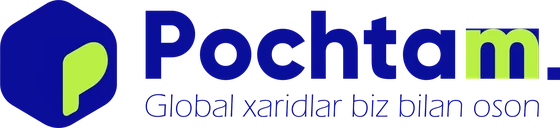
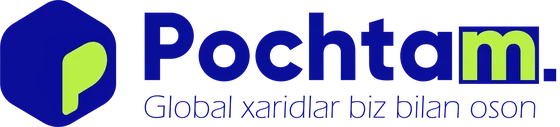
Ko'k quti harfdan kattaroq, introda quti yo'q
Quti endi `m` dan har tomondan BOX_PAD (16 birlik, harflar maydonining
~5,6%) ga chiqib turadi — ko'k yashil harfni ramkadek o'raydi. So'z-belgi
rasmi shuncha hoshiya bilan chiziladi; masshtab hoshiya emas, harflar
maydoni (WORD_H) bo'yicha hisoblanadi, shuning uchun harflar o'lchami
o'zgarmadi. Belgi bilan so'z orasi va shior masofasi hoshiyaga tuzatildi.

Introdagi quti olib tashlandi: u yerda harflar bittalab yig'iladi va quti
animatsiyaga xalaqit berardi.

  brand.webp       421x96  -> 424x96   (sarlavhada 158 -> 159 px)
  brand-full.webp  560x128 -> 560x127  (tanishuvda 55 -> 54 px)

Claude-Session: https://claude.ai/code/session_013YY2HjPmapjsnxB9N1S87s

diff --git a/Xarid Yordamchisi v2.dc.html b/Xarid Yordamchisi v2.dc.html
@@ -124,9 +124,6 @@
       { k: 'h', x: 1585, w: 194 }, { k: 't', x: 1804, w: 134 }, { k: 'a', x: 1966, w: 218 },
       { k: 'm', x: 2228, w: 303 }, { k: 'dot', x: 2567, w: 52 }
     ];
-    // Yashil `m` ortidagi ko'k quti — logotipdagi bilan bir xil o'lchov
-    // (tools/brand-logo.py dagi BOX_TOP/BOX_BOTTOM).
-    var BOX_TOP = 74, BOX_H = 208, INK = '#0B0F9A';
     var WORD_W = (2619 - 897) * WS, WORD_X = (1080 - WORD_W) / 2;
     var WORD_Y = MARK.y + MH + 96, WORD_H = 288 * WS;
     var TAG = { x: WORD_X, y: WORD_Y + WORD_H + 34, w: WORD_W, h: 96 * WS };
@@ -211,16 +208,9 @@
       glintBox.appendChild(glint);
 
       cam.appendChild(grid); cam.appendChild(glow); cam.appendChild(svg); cam.appendChild(hex);
-      var mBox = null;
       GLYPHS.forEach(function (g) {
-        var x = WORD_X + (g.x - 897) * WS;
-        if (g.k === 'm') {
-          mBox = el('div', 'position:absolute;background:' + INK + ';left:' + x + 'px;top:' +
-            (WORD_Y + BOX_TOP * WS) + 'px;width:' + (g.w * WS) + 'px;height:' + (BOX_H * WS) + 'px');
-          cam.appendChild(mBox);
-        }
         var im = IM[g.k]; im.alt = '';
-        im.setAttribute('style', 'position:absolute;display:block;left:' + x + 'px;top:' + WORD_Y + 'px;width:' + (g.w * WS) + 'px;height:' + WORD_H + 'px');
+        im.setAttribute('style', 'position:absolute;display:block;left:' + (WORD_X + (g.x - 897) * WS) + 'px;top:' + WORD_Y + 'px;width:' + (g.w * WS) + 'px;height:' + WORD_H + 'px');
         cam.appendChild(im);
       });
       cam.appendChild(glintBox); cam.appendChild(tag); cam.appendChild(cursor); cam.appendChild(pp);
@@ -257,7 +247,6 @@
         var st = WORD_CUE + i * 0.05;
         return {
           im: IM[g.k],
-          box: g.k === 'm' ? mBox : null,
           dy: an({ from: 60, to: 0, start: st, end: st + (g.k === 'dot' ? 0.8 : 0.5), ease: g.k === 'dot' ? E.outElastic : E.outBack }),
           op: an({ from: 0, to: 1, start: st, end: st + 0.15 })
         };
@@ -284,11 +273,7 @@
         hex.style.opacity = hexOpA(T); hex.style.transform = 'scale(' + hexSA(T) + ')';
         glow.style.opacity = glowA(T) * glowB(T); glow.style.transform = 'scale(' + glowSA(T) + ')';
         grid.style.opacity = lerp([land, WORD_CUE + 0.6], [1, 0.35], T);
-        gl.forEach(function (it) {
-          var op = it.op(T), tr = 'translateY(' + it.dy(T) + 'px)';
-          it.im.style.opacity = op; it.im.style.transform = tr;
-          if (it.box) { it.box.style.opacity = op; it.box.style.transform = tr; }
-        });
+        gl.forEach(function (it) { it.im.style.opacity = it.op(T); it.im.style.transform = 'translateY(' + it.dy(T) + 'px)'; });
         glintBox.style.opacity = gOpA(T) * gOpB(T); glint.style.left = gXA(T) + 'px';
         var cut = tagCutA(T);
         tag.style.opacity = tagOpA(T);
@@ -477,7 +462,7 @@
     </sc-if>
     <sc-if value="{{ isHome }}" hint-placeholder-val="{{ true }}">
       <h1 style="margin:0;display:flex;align-items:center">
-        <img src="icons/brand.webp" alt="Pochtam" width="158" height="36" style="width:158px;height:36px;object-fit:contain;display:block">
+        <img src="icons/brand.webp" alt="Pochtam" width="159" height="36" style="width:159px;height:36px;object-fit:contain;display:block">
       </h1>
     </sc-if>
     <sc-if value="{{ hasTitle }}" hint-placeholder-val="{{ false }}">
@@ -502,7 +487,7 @@
 
   <sc-if value="{{ sOnboard }}" hint-placeholder-val="{{ false }}">
     <div style="padding-top:30px;display:flex;flex-direction:column;gap:24px">
-      <img src="icons/brand-full.webp" alt="Pochtam — global xaridlar biz bilan oson" width="240" height="55" style="width:240px;height:55px;object-fit:contain;align-self:flex-start">
+      <img src="icons/brand-full.webp" alt="Pochtam — global xaridlar biz bilan oson" width="240" height="54" style="width:240px;height:54px;object-fit:contain;align-self:flex-start">
       <div style="height:7px;border-radius:4px;background:repeating-linear-gradient(-45deg,#C8102E 0 9px,#F1F1F8 9px 18px,#1B4D8F 18px 27px,#F1F1F8 27px 36px)"></div>
       <div style="display:flex;flex-direction:column;gap:10px">
         <div style="font-family:'Onest','XY Flags','Noto Color Emoji',system-ui,sans-serif;font-size:22px;letter-spacing:-.025em;font-weight:800;color:#131429;line-height:1.2">Tilni tanlang</div>

diff --git a/index.html b/index.html
@@ -125,9 +125,6 @@
       { k: 'h', x: 1585, w: 194 }, { k: 't', x: 1804, w: 134 }, { k: 'a', x: 1966, w: 218 },
       { k: 'm', x: 2228, w: 303 }, { k: 'dot', x: 2567, w: 52 }
     ];
-    // Yashil `m` ortidagi ko'k quti — logotipdagi bilan bir xil o'lchov
-    // (tools/brand-logo.py dagi BOX_TOP/BOX_BOTTOM).
-    var BOX_TOP = 74, BOX_H = 208, INK = '#0B0F9A';
     var WORD_W = (2619 - 897) * WS, WORD_X = (1080 - WORD_W) / 2;
     var WORD_Y = MARK.y + MH + 96, WORD_H = 288 * WS;
     var TAG = { x: WORD_X, y: WORD_Y + WORD_H + 34, w: WORD_W, h: 96 * WS };
@@ -212,16 +209,9 @@
       glintBox.appendChild(glint);
 
       cam.appendChild(grid); cam.appendChild(glow); cam.appendChild(svg); cam.appendChild(hex);
-      var mBox = null;
       GLYPHS.forEach(function (g) {
-        var x = WORD_X + (g.x - 897) * WS;
-        if (g.k === 'm') {
-          mBox = el('div', 'position:absolute;background:' + INK + ';left:' + x + 'px;top:' +
-            (WORD_Y + BOX_TOP * WS) + 'px;width:' + (g.w * WS) + 'px;height:' + (BOX_H * WS) + 'px');
-          cam.appendChild(mBox);
-        }
         var im = IM[g.k]; im.alt = '';
-        im.setAttribute('style', 'position:absolute;display:block;left:' + x + 'px;top:' + WORD_Y + 'px;width:' + (g.w * WS) + 'px;height:' + WORD_H + 'px');
+        im.setAttribute('style', 'position:absolute;display:block;left:' + (WORD_X + (g.x - 897) * WS) + 'px;top:' + WORD_Y + 'px;width:' + (g.w * WS) + 'px;height:' + WORD_H + 'px');
         cam.appendChild(im);
       });
       cam.appendChild(glintBox); cam.appendChild(tag); cam.appendChild(cursor); cam.appendChild(pp);
@@ -258,7 +248,6 @@
         var st = WORD_CUE + i * 0.05;
         return {
           im: IM[g.k],
-          box: g.k === 'm' ? mBox : null,
           dy: an({ from: 60, to: 0, start: st, end: st + (g.k === 'dot' ? 0.8 : 0.5), ease: g.k === 'dot' ? E.outElastic : E.outBack }),
           op: an({ from: 0, to: 1, start: st, end: st + 0.15 })
         };
@@ -285,11 +274,7 @@
         hex.style.opacity = hexOpA(T); hex.style.transform = 'scale(' + hexSA(T) + ')';
         glow.style.opacity = glowA(T) * glowB(T); glow.style.transform = 'scale(' + glowSA(T) + ')';
         grid.style.opacity = lerp([land, WORD_CUE + 0.6], [1, 0.35], T);
-        gl.forEach(function (it) {
-          var op = it.op(T), tr = 'translateY(' + it.dy(T) + 'px)';
-          it.im.style.opacity = op; it.im.style.transform = tr;
-          if (it.box) { it.box.style.opacity = op; it.box.style.transform = tr; }
-        });
+        gl.forEach(function (it) { it.im.style.opacity = it.op(T); it.im.style.transform = 'translateY(' + it.dy(T) + 'px)'; });
         glintBox.style.opacity = gOpA(T) * gOpB(T); glint.style.left = gXA(T) + 'px';
         var cut = tagCutA(T);
         tag.style.opacity = tagOpA(T);
@@ -478,7 +463,7 @@
     </sc-if>
     <sc-if value="{{ isHome }}" hint-placeholder-val="{{ true }}">
       <h1 style="margin:0;display:flex;align-items:center">
-        <img src="icons/brand.webp" alt="Pochtam" width="158" height="36" style="width:158px;height:36px;object-fit:contain;display:block">
+        <img src="icons/brand.webp" alt="Pochtam" width="159" height="36" style="width:159px;height:36px;object-fit:contain;display:block">
       </h1>
     </sc-if>
     <sc-if value="{{ hasTitle }}" hint-placeholder-val="{{ false }}">
@@ -503,7 +488,7 @@
 
   <sc-if value="{{ sOnboard }}" hint-placeholder-val="{{ false }}">
     <div style="padding-top:30px;display:flex;flex-direction:column;gap:24px">
-      <img src="icons/brand-full.webp" alt="Pochtam — global xaridlar biz bilan oson" width="240" height="55" style="width:240px;height:55px;object-fit:contain;align-self:flex-start">
+      <img src="icons/brand-full.webp" alt="Pochtam — global xaridlar biz bilan oson" width="240" height="54" style="width:240px;height:54px;object-fit:contain;align-self:flex-start">
       <div style="height:7px;border-radius:4px;background:repeating-linear-gradient(-45deg,#C8102E 0 9px,#F1F1F8 9px 18px,#1B4D8F 18px 27px,#F1F1F8 27px 36px)"></div>
       <div style="display:flex;flex-direction:column;gap:10px">
         <div style="font-family:'Onest','XY Flags','Noto Color Emoji',system-ui,sans-serif;font-size:22px;letter-spacing:-.025em;font-weight:800;color:#131429;line-height:1.2">Tilni tanlang</div>

diff --git a/sw.js b/sw.js
@@ -8,7 +8,7 @@
  *     qat'i nazar saqlanadigan keshda qoladi.
  *   - Valyuta kursi kabi API so'rovlari keshlanmaydi.
  */
-const VERSION = '8421f08eceff';
+const VERSION = '94354ad3557f';
 const CACHE = 'xarid-' + VERSION;
 /* Logotiplar keshi ilova versiyasiga bog'lanmaydi: yangilanish chiqqanda
    ular qaytadan yuklanmaydi. */

diff --git a/tools/brand-logo.py b/tools/brand-logo.py
@@ -35,8 +35,11 @@ WORD_X0, WORD_X1, WORD_H = 897, 2619, 288
 
 # Yashil `m` ortidagi ko'k to'rtburchak: harfning to'liq kengligi, x-balandlik
 # ustidan tayanch chizig'igacha. Rang — so'z-belgidagi ko'kning o'zi.
+# Quti harfdan har tomondan BOX_PAD ga kattaroq, shuning uchun so'z-belgi
+# rasmi ham shuncha hoshiya bilan chiziladi.
 BOX_GLYPH = 'm'
 BOX_TOP, BOX_BOTTOM = 74, 282
+BOX_PAD = 16
 BOX_FILL = (11, 15, 154, 255)
 
 # Lokapning nisbatlari — berilgan logotipdan o'lchab olingan.
@@ -59,13 +62,19 @@ def mark():
 
 
 def word():
-    """`Pochtam.` — harflar asl oraliqlari bilan, `m` ortida ko'k quti."""
-    im = Image.new('RGBA', (WORD_X1 - WORD_X0, WORD_H), (0, 0, 0, 0))
+    """`Pochtam.` — harflar asl oraliqlari bilan, `m` ortida ko'k quti.
+
+    Qaytadigan rasm har tomondan BOX_PAD ga kengroq: quti harfdan chiqib
+    turadi. Harflar maydonining o'zi avvalgidek WORD_H balandlikda.
+    """
+    p = BOX_PAD
+    im = Image.new('RGBA', (WORD_X1 - WORD_X0 + 2 * p, WORD_H + 2 * p), (0, 0, 0, 0))
     for name, x, w in GLYPHS:
+        gx = x - WORD_X0 + p
         if name == BOX_GLYPH:
-            box = Image.new('RGBA', (w, BOX_BOTTOM - BOX_TOP), BOX_FILL)
-            im.alpha_composite(box, (x - WORD_X0, BOX_TOP))
-        im.alpha_composite(Image.open(SRC / f'{name}.png').convert('RGBA'), (x - WORD_X0, 0))
+            box = Image.new('RGBA', (w + 2 * p, BOX_BOTTOM - BOX_TOP + 2 * p), BOX_FILL)
+            im.alpha_composite(box, (gx - p, BOX_TOP))
+        im.alpha_composite(Image.open(SRC / f'{name}.png').convert('RGBA'), (gx, p))
     return im
 
 
@@ -77,20 +86,21 @@ def lockup(tagline=False):
     36 px balandlikdagi lokapda uning harflari 4 px ga tushib qolardi.
     """
     m, w = mark(), word()
-    wh = round(m.height * WORD_SHARE)
-    k = wh / w.height
-    w = w.resize((round(w.width * k), wh), Image.LANCZOS)
+    wh = round(m.height * WORD_SHARE)       # harflar maydonining balandligi
+    k = wh / WORD_H                         # hoshiya emas, harflar bo'yicha
+    p = round(BOX_PAD * k)                  # hoshiya — masofalarni shunga tuzatamiz
+    w = w.resize((round(w.width * k), round(w.height * k)), Image.LANCZOS)
 
     text = w
     if tagline:
         t = Image.open(SRC / 'tagline.png').convert('RGBA')
         t = t.resize((round(t.width * k), round(t.height * k)), Image.LANCZOS)
-        gap = round(wh * TAG_GAP_SHARE)
-        text = Image.new('RGBA', (max(w.width, t.width), wh + gap + t.height), (0, 0, 0, 0))
+        top = p + wh + round(wh * TAG_GAP_SHARE)
+        text = Image.new('RGBA', (max(w.width, p + t.width), top + t.height), (0, 0, 0, 0))
         text.alpha_composite(w, (0, 0))
-        text.alpha_composite(t, (0, wh + gap))
+        text.alpha_composite(t, (p, top))
 
-    gap = round(m.width * GAP_SHARE)
+    gap = round(m.width * GAP_SHARE) - p
     im = Image.new('RGBA', (m.width + gap + text.width, m.height), (0, 0, 0, 0))
     im.alpha_composite(m, (0, 0))
     im.alpha_composite(text, (m.width + gap, (m.height - text.height) // 2))

diff --git a/README.md b/README.md
@@ -115,10 +115,10 @@ yig'ib to'rt faylni yasaydi:
 | `icons/icon-192.png` | PWA ikonkasi |
 | `icons/apple-touch-icon.png` | iOS ikonkasi |
 
-Yashil `m` ortidagi ko'k quti — harfning to'liq kengligi, x-balandlikdan
-tayanch chizig'igacha (`BOX_TOP`/`BOX_BOTTOM`). U introda ham bor: o'sha
-o'lchov `<head>` dagi intro kodida takrorlanadi, shuning uchun animatsiya
-oxiridagi so'z-belgi sarlavhadagisi bilan bir xil chiqadi.
+Yashil `m` ortidagi ko'k quti — harfning kengligi va x-balandlikdan tayanch
+chizig'igacha bo'lgan balandligi (`BOX_TOP`/`BOX_BOTTOM`), har tomondan
+`BOX_PAD` ga kattaroq. Introda quti yo'q: u yerda harflar bittalab yig'iladi
+va quti animatsiyani chalg'itardi.
 
 Sarlavhada shior yo'q: 36 px balandlikdagi lokapda uning harflari 4 px ga
 tushib o'qilmay qolardi. Tanishuv ekranida joy yetarli — shior so'z ostida
